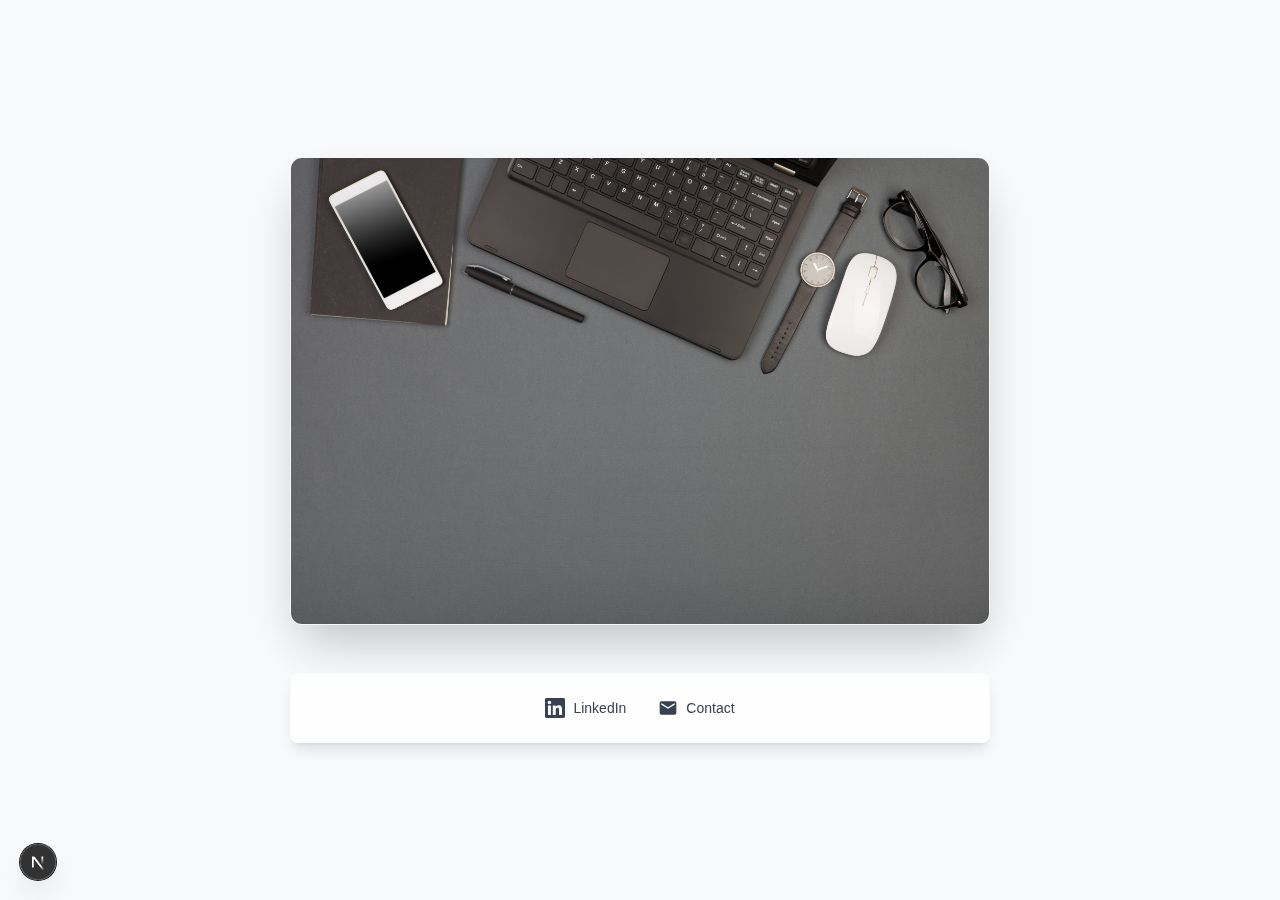
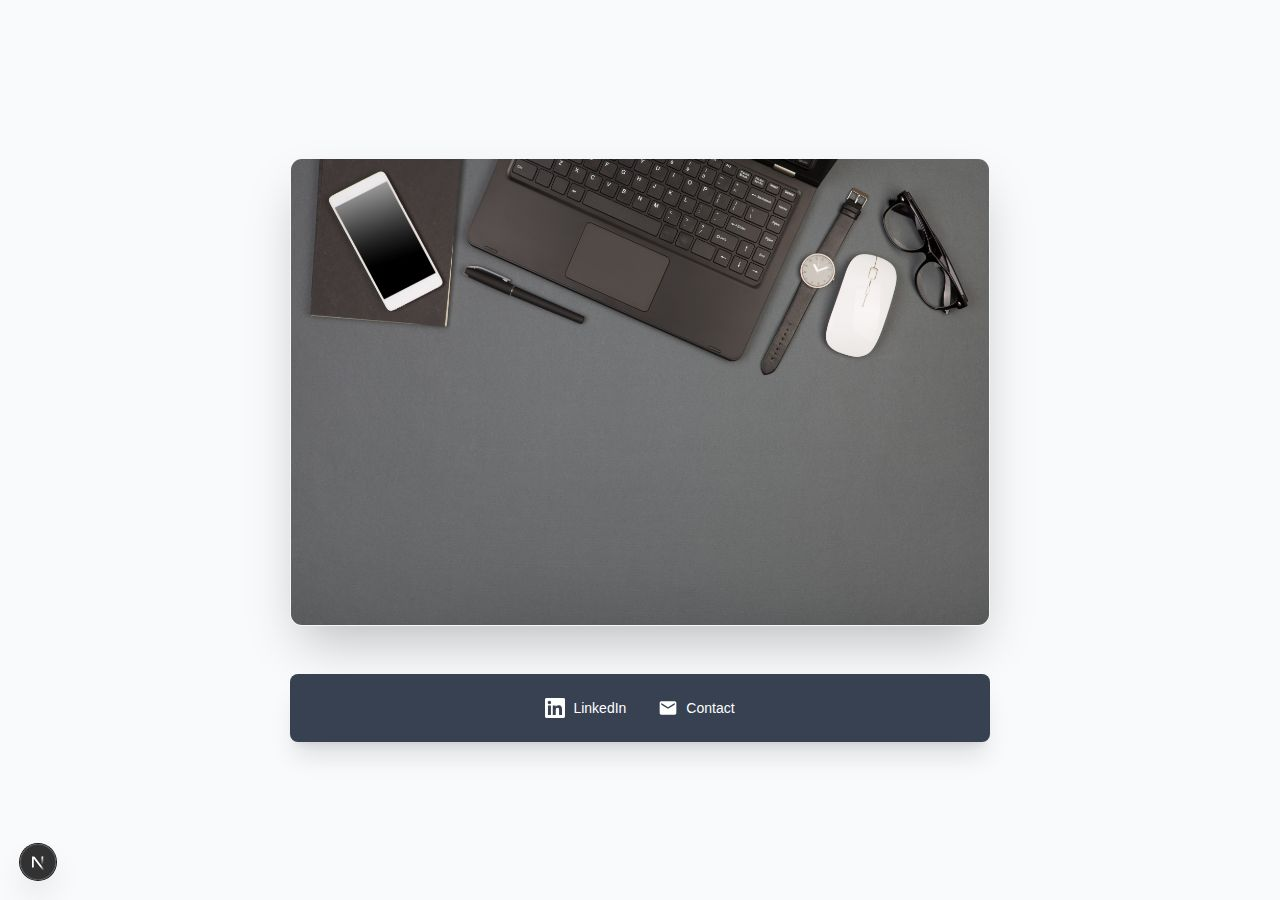
fix: improve contact links visibility
- Changed contact bar from glassmorphic white to solid dark gray
- Changed link text from dark to white for better contrast
- Updated screenshot

diff --git a/src/components/ContactLinks.tsx b/src/components/ContactLinks.tsx
@@ -5,7 +5,7 @@ export function ContactLinks() {
         href="https://www.linkedin.com/in/francoisxaviermartin/"
         target="_blank"
         rel="noopener noreferrer"
-        className="flex items-center space-x-2 text-primary hover:text-accent transition-colors duration-200"
+        className="flex items-center space-x-2 text-white hover:text-secondary transition-colors duration-200"
       >
         <LinkedInIcon className="w-5 h-5" />
         <span className="text-sm font-medium">LinkedIn</span>
@@ -13,7 +13,7 @@ export function ContactLinks() {
       
       <a
         href="mailto:contact@m4rt1n.eu"
-        className="flex items-center space-x-2 text-primary hover:text-accent transition-colors duration-200"
+        className="flex items-center space-x-2 text-white hover:text-secondary transition-colors duration-200"
       >
         <EmailIcon className="w-5 h-5" />
         <span className="text-sm font-medium">Contact</span>

diff --git a/src/app/page.tsx b/src/app/page.tsx
@@ -16,7 +16,7 @@ export default function HomePage() {
           />
         </div>
         
-        <div className="bg-white/80 backdrop-blur-sm rounded-lg px-8 py-6 shadow-lg border border-neutral/10">
+        <div className="bg-primary rounded-lg px-8 py-6 shadow-xl">
           <ContactLinks />
         </div>
       </div>
